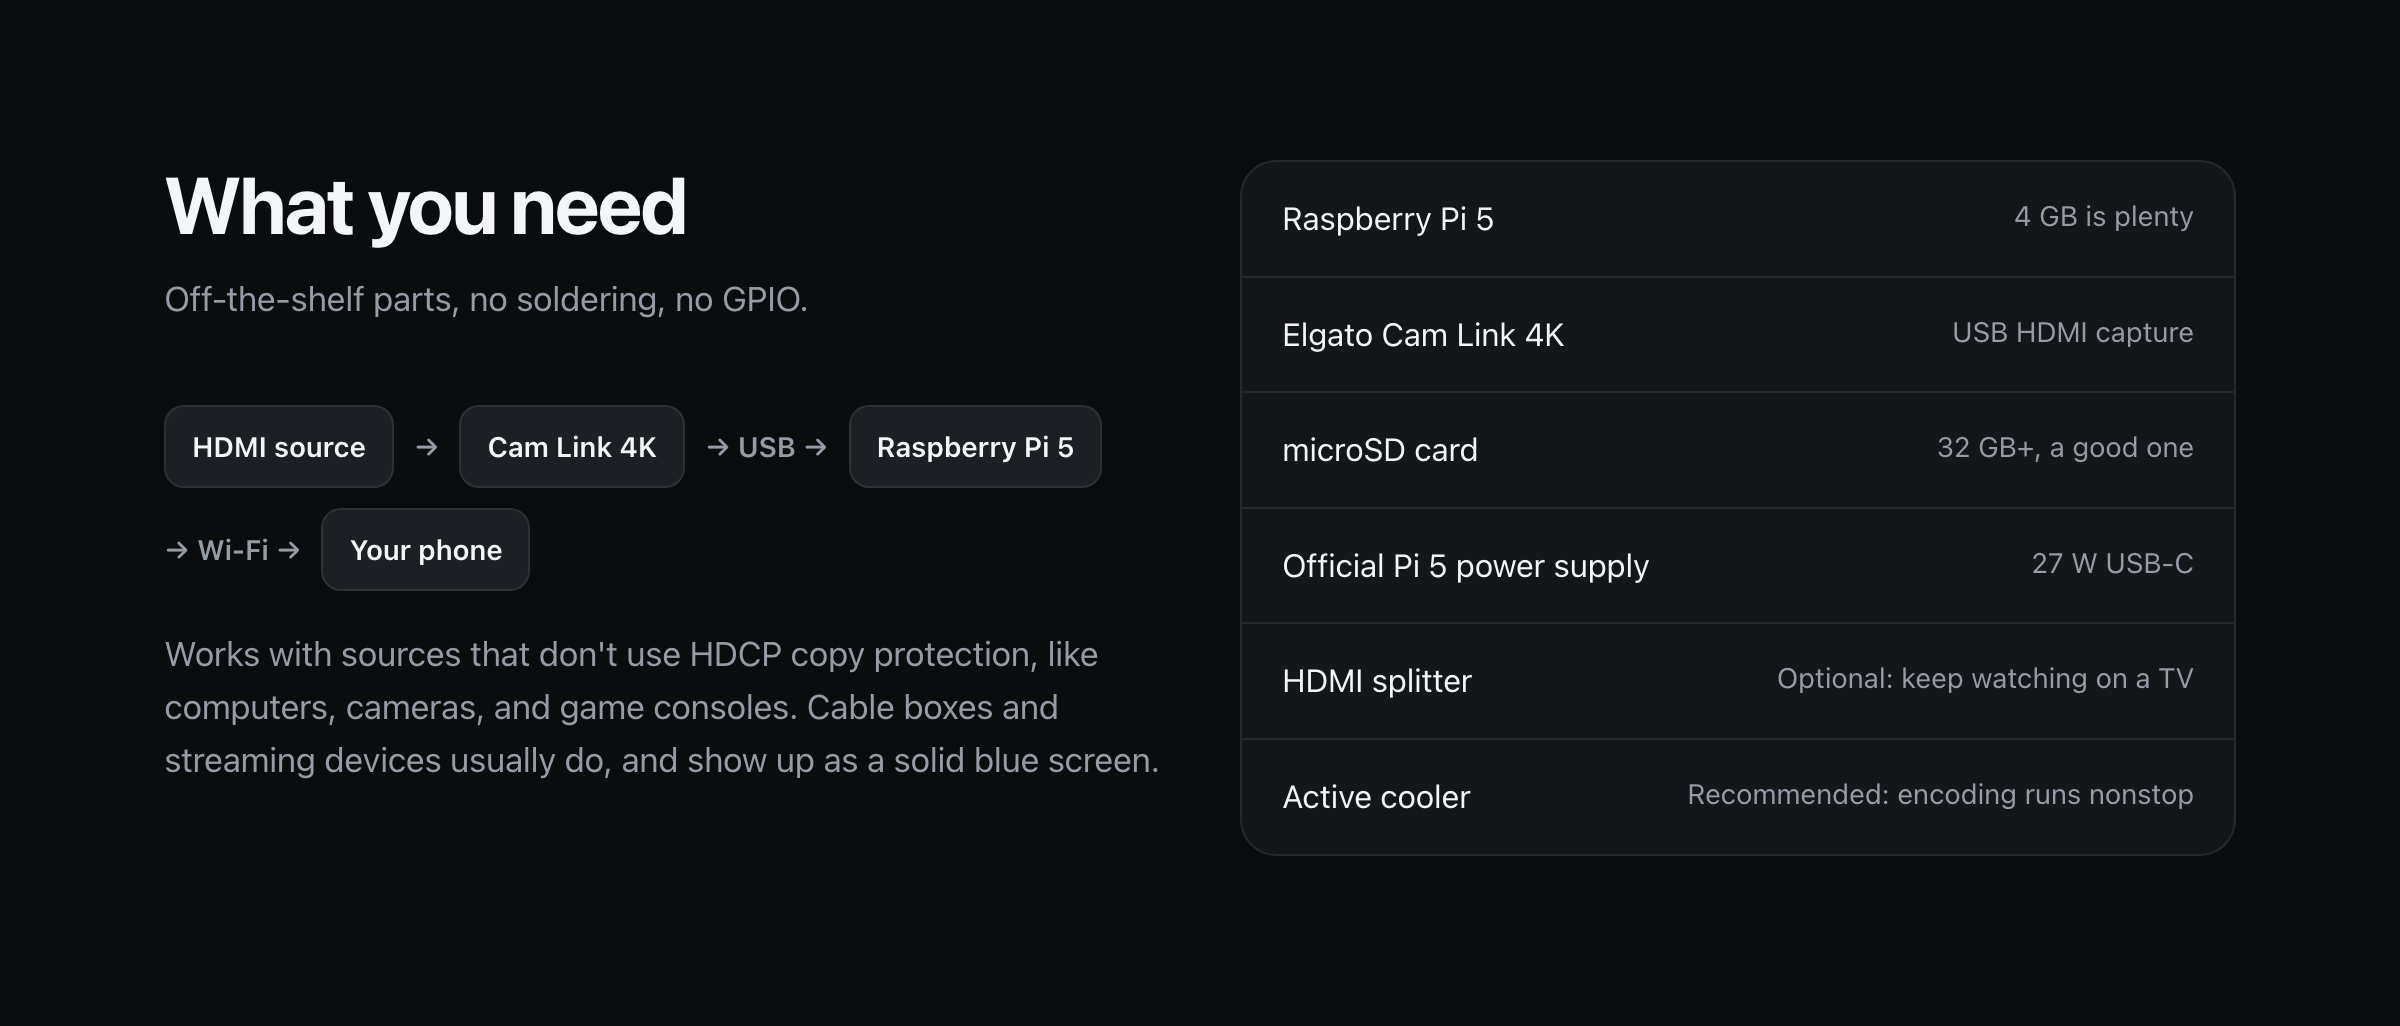
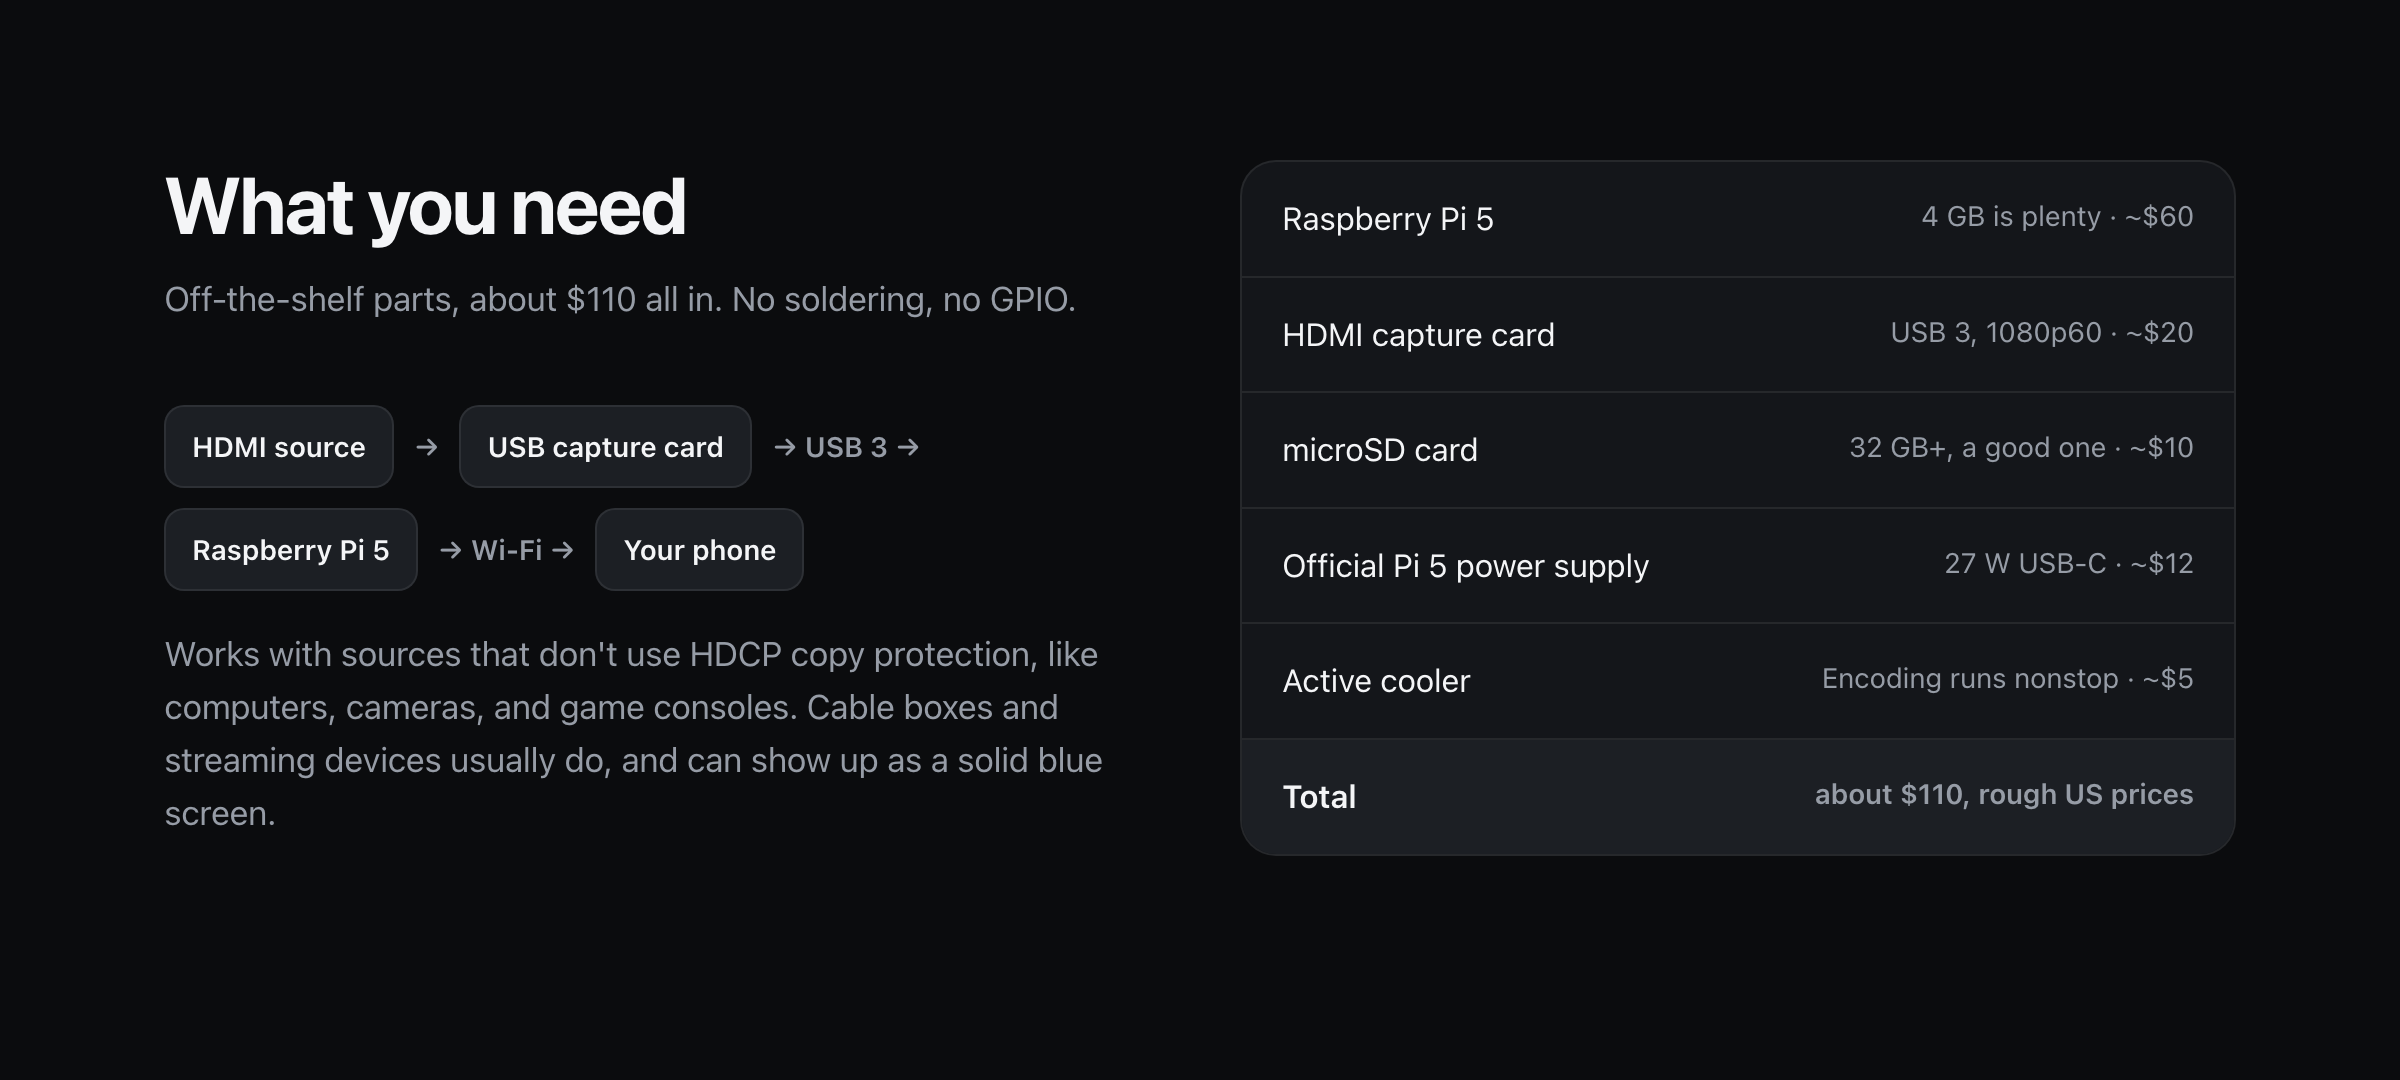
Faster live preview (5 fps); site and README list a generic capture card with rough costs

diff --git a/site/index.html b/site/index.html
@@ -18,7 +18,7 @@
   <meta property="og:url" content="https://www.snapback.video/">
   <meta property="og:type" content="website">
   <meta property="og:title" content="Snapback · Instant replay for anything with HDMI">
-  <meta property="og:description" content="A Raspberry Pi 5 + Cam Link box that saves the last 30 seconds, or a screenshot, from your phone. No cloud, no accounts.">
+  <meta property="og:description" content="A Raspberry Pi 5 + USB capture card box that saves the last 30 seconds, or a screenshot, from your phone. No cloud, no accounts.">
   <meta name="theme-color" content="#0b0c0e">
   <link rel="icon" href="favicon.svg" type="image/svg+xml">
   <style>
@@ -172,6 +172,7 @@
     .parts li { display: flex; justify-content: space-between; gap: 16px; padding: 16px 20px; border-bottom: 1px solid var(--line); }
     .parts li:last-child { border-bottom: 0; }
     .parts span { color: var(--muted); font-size: 14px; text-align: right; }
+    .parts li.total { font-weight: 600; background: var(--surface-2, rgba(255, 255, 255, 0.03)); }
     .chain { display: flex; flex-wrap: wrap; align-items: center; gap: 10px; margin-top: 26px; font-size: 14px; font-weight: 600; }
     .chain b { padding: 9px 13px; border-radius: 10px; background: var(--surface-2); border: 1px solid var(--line); font-weight: 600; }
     .chain i { color: var(--muted); font-style: normal; }
@@ -265,7 +266,7 @@
         <div class="card">
           <span class="num">1</span>
           <h3>Plug it in</h3>
-          <p>HDMI from your console, camera, or computer goes into a Cam Link on a Raspberry Pi 5.</p>
+          <p>HDMI from your console, camera, or computer goes into a USB capture card on a Raspberry Pi 5.</p>
         </div>
         <div class="card">
           <span class="num">2</span>
@@ -324,19 +325,19 @@
     <div class="wrap hw">
       <div>
         <h2>What you need</h2>
-        <p class="section-lede">Off-the-shelf parts, no soldering, no GPIO.</p>
+        <p class="section-lede">Off-the-shelf parts, about $110 all in. No soldering, no GPIO.</p>
         <div class="chain">
-          <b>HDMI source</b><i>→</i><b>Cam Link 4K</b><i>→ USB →</i><b>Raspberry Pi 5</b><i>→ Wi-Fi →</i><b>Your phone</b>
+          <b>HDMI source</b><i>→</i><b>USB capture card</b><i>→ USB 3 →</i><b>Raspberry Pi 5</b><i>→ Wi-Fi →</i><b>Your phone</b>
         </div>
-        <p class="section-lede" style="margin-top: 18px;">Works with sources that don't use HDCP copy protection, like computers, cameras, and game consoles. Cable boxes and streaming devices usually do, and show up as a solid blue screen.</p>
+        <p class="section-lede" style="margin-top: 18px;">Works with sources that don't use HDCP copy protection, like computers, cameras, and game consoles. Cable boxes and streaming devices usually do, and can show up as a solid blue screen.</p>
       </div>
       <ul class="parts">
-        <li>Raspberry Pi 5 <span>4 GB is plenty</span></li>
-        <li>Elgato Cam Link 4K <span>USB HDMI capture</span></li>
-        <li>microSD card <span>32 GB+, a good one</span></li>
-        <li>Official Pi 5 power supply <span>27 W USB-C</span></li>
-        <li>HDMI splitter <span>Optional: keep watching on a TV</span></li>
-        <li>Active cooler <span>Recommended: encoding runs nonstop</span></li>
+        <li>Raspberry Pi 5 <span>4 GB is plenty · ~$60</span></li>
+        <li>HDMI capture card <span>USB 3, 1080p60 · ~$20</span></li>
+        <li>microSD card <span>32 GB+, a good one · ~$10</span></li>
+        <li>Official Pi 5 power supply <span>27 W USB-C · ~$12</span></li>
+        <li>Active cooler <span>Encoding runs nonstop · ~$5</span></li>
+        <li class="total">Total <span>about $110, rough US prices</span></li>
       </ul>
     </div>
   </section>

diff --git a/snapback/static/index.html b/snapback/static/index.html
@@ -492,7 +492,7 @@
       } finally {
         framePending = false;
       }
-      if (!liveVideo) frameTimer = setTimeout(pollFrame, 500);
+      if (!liveVideo) frameTimer = setTimeout(pollFrame, 200);
     }
 
     function setLiveVideo(on) {

diff --git a/snapback/capture.py b/snapback/capture.py
@@ -69,7 +69,7 @@ class CaptureConfig:
     buffer_keep_seconds: int = 60
     replay_seconds: int = 30
     x264_preset: str = "ultrafast"
-    screenshot_fps: int = 2
+    screenshot_fps: int = 5
 
     def __post_init__(self) -> None:
         if self.buffer_dir is None:

diff --git a/README.md b/README.md
@@ -4,7 +4,7 @@
 
 [![Snapback: instant replay for anything with HDMI, shown on a phone](docs/images/hero.png)](https://www.snapback.video/)
 
-Snapback turns a Raspberry Pi 5 with an Elgato Cam Link 4K into a tiny HDMI capture box for the home network. Open it in your phone's browser and there are two buttons:
+Snapback turns a Raspberry Pi 5 with a USB HDMI capture card into a tiny HDMI capture box for the home network. Open it in your phone's browser and there are two buttons:
 
 1. **Grab Screenshot**: saves a 1920x1080 JPEG of the live HDMI input.
 2. **Download Last 30 Seconds**: saves the previous ~30 seconds (H.264 + AAC MP4).
@@ -21,14 +21,17 @@ No accounts, cloud, telemetry, database, Docker, or JS build tooling. Python + F
 
 ## Hardware
 
-![HDMI source to Cam Link 4K to Raspberry Pi 5 to your phone, with the parts list](docs/images/hardware.png)
+![HDMI source to USB capture card to Raspberry Pi 5 to your phone, with the parts list](docs/images/hardware.png)
 
-- Raspberry Pi 5 (4 GB is plenty) with an active cooler
-- Elgato Cam Link 4K
-- A good 32 GB+ microSD card and the official 27 W USB-C power supply
-- Optional: an HDMI splitter so you can keep watching on a TV
+About $110 all in (rough US prices):
 
-**Copy-protected sources show a solid blue screen.** Cable and satellite boxes, streaming sticks, and Blu-ray players usually encrypt their HDMI output with HDCP. Your TV can decrypt it; capture cards like the Cam Link can't, so Snapback only sees blue. This is expected and can't be fixed in software. Snapback works with sources that don't use HDCP, such as computers, cameras, and game consoles (on PlayStation, turn off "Enable HDCP" in the system settings).
+- Raspberry Pi 5, 4 GB is plenty (~$60), with an active cooler (~$5)
+- A USB 3 HDMI capture card that does 1080p60 MJPEG, such as a generic MS2130-based one (~$20). The Elgato Cam Link 4K also works.
+- A good 32 GB+ microSD card (~$10) and the official 27 W USB-C power supply (~$12)
+
+The audio device is found automatically from the capture card; set `SNAPBACK_AUDIO_DEVICE` to override it.
+
+**Copy-protected sources can show a solid blue screen.** Cable and satellite boxes, streaming sticks, and Blu-ray players usually encrypt their HDMI output with HDCP. Your TV can decrypt it; capture cards that follow HDCP can't, so Snapback only sees blue. This is expected and can't be fixed in software. Snapback works with sources that don't use HDCP, such as computers, cameras, and game consoles (on PlayStation, turn off "Enable HDCP" in the system settings).
 
 ## Install
 
@@ -67,7 +70,7 @@ Environment variables, all optional. If you run Snapback as a service, put them 
 - `POST /api/screenshot`: saves a JPEG and returns `{filename, url, size_bytes, ...}`.
 - `POST /api/replay`: saves the last ~30 s and returns `{filename, url, approx_seconds, ...}`.
 - `GET /media/{filename}`: serves a file from the media directory only (strict filename check, no subpaths).
-- `GET /live/frame.jpg`: the buffer's newest frame (refreshed twice a second), for the live preview.
+- `GET /live/frame.jpg`: the buffer's newest frame (refreshed five times a second), for the live preview.
 - `GET /live/stream.m3u8`: an HLS live playlist over the newest buffer segments, for live video with sound in browsers that play HLS natively, such as Safari (elsewhere the page hides the live-video toggle and keeps the frame preview). Segments are served from `/live/seg_NNNNNN.ts`.
 
 Errors are JSON `{"detail": "..."}`: `409` if the capture device is busy, `503` if capture failed or the buffer has no footage.
